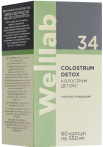
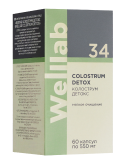
add adaptive for cards img

diff --git a/prisma/seed.ts b/prisma/seed.ts
@@ -7,6 +7,7 @@ const goods = [
     id: 1,
     slug: "cocktail-pistachio",
     img: "/coktail-pistachio.png",
+    mobileImg: "/coktail-pistachio.png",
     title: "Protein cocktail with pistachio flavor",
     price: "44$",
     category: "popular",
@@ -15,6 +16,7 @@ const goods = [
     id: 2,
     slug: "cocktail-banana",
     img: "/coktail-banana.png",
+    mobileImg: "/coktail-banana.png",
     title: "Protein cocktail  with banana flavor",
     price: "46$",
     category: "popular",
@@ -23,6 +25,7 @@ const goods = [
     id: 3,
     slug: "cocktail-salt-caramel",
     img: "/coktail-salt-caramel.png",
+    mobileImg: "/coktail-salt-caramel.png",
     title: "Protein cocktail  with salted caramel flavor",
     price: "48$",
     category: "popular",
@@ -31,6 +34,7 @@ const goods = [
     id: 4,
     slug: "cocktail-strawberry",
     img: "/coktail-strawberry.png",
+    mobileImg: "/coktail-strawberry.png",
     title: "Protein cocktail  with strawberry flavor",
     price: "42$",
     category: "popular",
@@ -39,6 +43,7 @@ const goods = [
     id: 5,
     slug: "cocktail",
     img: "/coktail-strawberry.png",
+    mobileImg: "/coktail-strawberry.png",
     title: "Protein cocktail  with strawberry flavor",
     price: "42$",
     category: "detox",
@@ -47,6 +52,7 @@ const goods = [
     id: 6,
     slug: "detox-bottle",
     img: "/detox-bottle.png",
+    mobileImg: "/detox-bottle-mobile.png",
     title: "Wellab Colostrum detox bottle 550 ml",
     price: "92$",
     category: "detox",
@@ -55,6 +61,7 @@ const goods = [
     id: 7,
     slug: "detox-box",
     img: "/detox-box.png",
+    mobileImg: "/detox-box-mobile.png",
     title: "Wellab Colostrum detox bottle 550 ml",
     price: "64$",
     category: "detox",
@@ -63,6 +70,7 @@ const goods = [
     id: 8,
     slug: "detox-long-bottle",
     img: "/detox-long-box.png",
+    mobileImg: "/detox-long-box.png",
     title: "Wellab Colostrum detox bottle 550 ml",
     price: "52$",
     category: "popular",
@@ -71,6 +79,7 @@ const goods = [
     id: 9,
     slug: "detox-bottle-with-box",
     img: "/detox-bottle-with-box.png",
+    mobileImg: "/detox-bottle-with-box.png",
     title: "Wellab Colostrum detox bottle 550 ml",
     price: "52$",
     category: "popular",
@@ -82,9 +91,16 @@ async function main() {
 
   for (const good of goods) {
     const result = await prisma.goods.upsert({
-      where: { id: good.id },
-      update: {},
-      create: good,
+      where: { slug: good.slug }, // Используйте slug вместо id, поскольку это уникальное поле
+      update: {}, // Укажите, что нужно обновить, если найдена существующая запись
+      create: {
+        slug: good.slug,
+        img: good.img,
+        mobileImg: good.mobileImg,
+        title: good.title,
+        price: good.price,
+        category: good.category,
+      },
     });
     console.log(`Created event with id: ${result.id}`);
   }

diff --git a/src/components/goods-list.tsx b/src/components/goods-list.tsx
@@ -8,33 +8,52 @@ import { getGoods } from "@/lib/server-utils";
 import Image from "next/image";
 
 type GoodsListProps = {
-	category: string;
+  category: string;
 };
 
-export default async function GoodsList({category}:GoodsListProps) {
+export default async function GoodsList({ category }: GoodsListProps) {
   const { goods } = await getGoods(category);
 
   return (
-    <section className="container flex p-0 flex-wrap justify-center sm:justify-between">
+    <section className="container flex flex-wrap justify-center p-0 sm:justify-between">
       {goods.map((good) => (
         <Card
-          className="m-[5px] flex h-[220px] w-[320px] sm:h-[350px] sm:w-[240px] flex-col items-center justify-between rounded-[8px] pb-[20px] sm:pb-[30px] px-[10px] sm:px-[21px] pt-[20px] sm:pt-[60px] hover:border-[#6e860b]"
+          className="m-[5px] flex h-[220px] w-[320px] flex-col items-center justify-between rounded-[8px] px-[10px] pb-[20px] pt-[20px] hover:border-[#6e860b] sm:h-[350px] sm:w-[240px] sm:px-[21px] sm:pb-[30px] sm:pt-[60px]"
           key={good.id}
           style={{ boxShadow: "-1px 4px 40px -8px rgba(0 0 0 / 21%)" }}
         >
-          <Image src={good.img} alt="" width={135} height={130} className='w-[110px] sm:w-[125px] max-h-[100px] mb-[10px] sm:mb-0' />
-          <CardFooter className='items-end p-0'>
+          <picture>
+            <source
+              media="(max-width: 768px)"
+              srcSet={good.mobileImg}
+            />
+            <Image
+              src={good.img}
+              alt=""
+              width={135}
+              height={130}
+              className="mb-[10px] max-h-[160px] w-[120px] md:w-[110px] sm:mb-0 sm:w-[125px]"
+            />
+          </picture>
+
+          <CardFooter className="items-end p-0">
             <div>
-              <CardTitle className="text-[14px] font-normal mb-[10px] text-gray-700">
+              <CardTitle className="mb-[10px] text-[14px] font-normal text-gray-700">
                 {good.title}
               </CardTitle>
               <CardDescription className="dark-green text-[16px] font-bold">
                 {good.price}
               </CardDescription>
             </div>
-						<button className="btn btn-green">
-							<Image src='/basket-green.svg' alt='basket-green' width={17} height={22} className='w-[17px] max-w-[17px]'/>
-						</button>
+            <button className="btn btn-green">
+              <Image
+                src="/basket-green.svg"
+                alt="basket-green"
+                width={17}
+                height={22}
+                className="w-[17px] max-w-[17px]"
+              />
+            </button>
           </CardFooter>
         </Card>
       ))}
